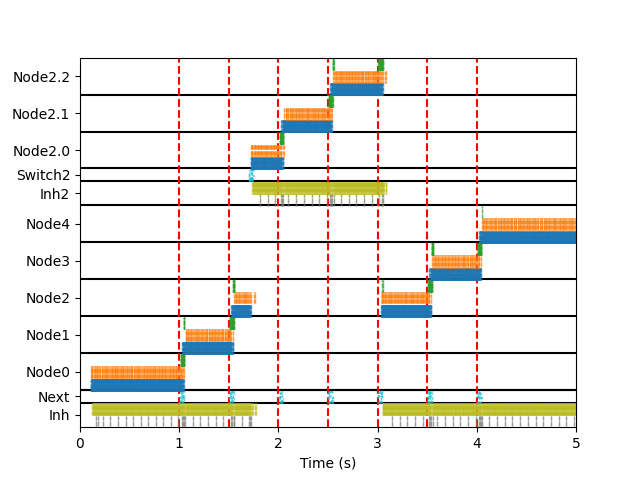
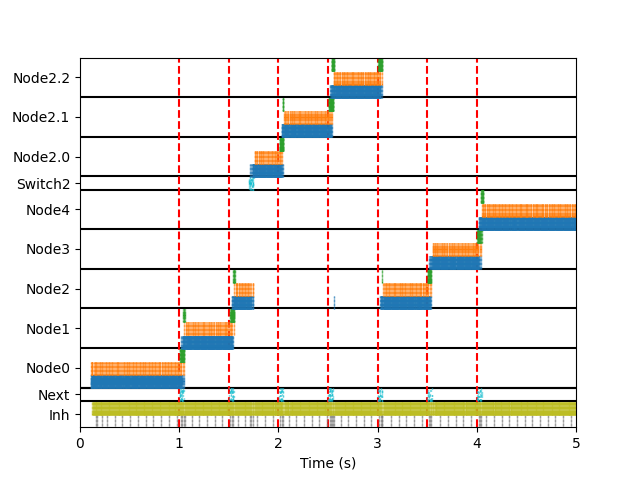
Update branch topology

diff --git a/ssm.py b/ssm.py
@@ -68,11 +68,7 @@ class SNNStateMachine:
             w = None
         if self.sim.isNeuronExist(f'Switch{pos}'):
             raise Exception('Triple branches or above at the same node are not supported yet.')
-        self.sim.addNeuron(f'OrdinalInh{pos}', n=self.population_size, taum=5, layer=4)
-        self.sim.addNeuron(f'TaskInh{pos}', n=self.population_size, layer=6)
         self.sim.addNeuron(f'Switch{pos}', n=self.population_size, c=0.1, taum=3, restpot=-55, layer=1)
-        self.sim.addReceptor(f'OrdinalInh{pos}', 'AMPA', tau=20, meanexteff=10.5)
-        self.sim.addReceptor(f'TaskInh{pos}', 'AMPA', tau=20, meanexteff=10.5)
         self.sim.addReceptor(f'Switch{pos}', 'AMPA', tau=1, meanexteff=10)
         for subid in range(length):
             id = str(pos) + '.' + str(subid)
@@ -80,12 +76,16 @@ class SNNStateMachine:
                 self.declareNodeNeurons(id, w)
             else:
                 self.declareNodeNeurons(id)
-            self.sim.addCoonection(f'Ordinal{id}', f'OrdinalInh{pos}', 'AMPA', 0.5)
-            self.sim.addCoonection(f'Task{id}', f'TaskInh{pos}', 'AMPA', 1.0)
+            #self.sim.addCoonection(f'Ordinal{id}', f'OrdinalInh{pos}', 'AMPA', 0.5)
+            self.sim.addCoonection(f'Ordinal{id}', f'OrdinalInh', 'AMPA', 0.5)
+            #self.sim.addCoonection(f'Task{id}', f'TaskInh{pos}', 'AMPA', 1.0)
+            self.sim.addCoonection(f'Task{id}', f'TaskInh', 'AMPA', 1.0)
             self.sim.addCoonection('Next', f'Shifter{id}', 'AMPA', 2.0)
-            self.sim.addCoonection(f'OrdinalInh{pos}', f'Ordinal{id}', 'GABA', 10)
-            self.sim.addCoonection(f'TaskInh{pos}', f'Task{id}', 'GABA', 50.0)
-        self.sim.addCoonection(f'Switch{pos}', f"Ordinal{str(pos)+'.0'}", 'AMPA', 2.0)
+            #self.sim.addCoonection(f'OrdinalInh{pos}', f'Ordinal{id}', 'GABA', 10)
+            self.sim.addCoonection(f'OrdinalInh', f'Ordinal{id}', 'GABA', 10)
+            #self.sim.addCoonection(f'TaskInh{pos}', f'Task{id}', 'GABA', 50.0)
+            self.sim.addCoonection(f'TaskInh', f'Task{id}', 'GABA', 50.0)
+        self.sim.addCoonection(f'Switch{pos}', f"Ordinal{str(pos)+'.0'}", 'AMPA', 3.0)
                 
 
     def declareNodeNeurons(self, id, fork_task_weight=None):
@@ -125,10 +125,10 @@ class SNNStateMachine:
                         continue
                     self.sim.addCoonection(f'Shifter{prev_id}', f'Ordinal{id}', 'AMPA', 1.0)
                     prev_id = id
-                self.sim.addCoonection(f'Shifter{pair[0]}', f"Ordinal{str(pair[0]) + '.0'}", 'AMPA', 0.25)
-                self.sim.addCoonection(f'Shifter{pair[0]+(pair[1]-1)/10}', f'Ordinal{pair[0]}', 'AMPA', 0.4)
-                self.sim.addCoonection(f"Switch{pair[0]}", 'OrdinalInh', 'AMPA', 1.0)
-                self.sim.addCoonection(f'Ordinal{pair[0]}', f'OrdinalInh{pair[0]}', 'AMPA', 0.3)
+                self.sim.addCoonection(f'Shifter{pair[0]}', f"Ordinal{str(pair[0]) + '.0'}", 'AMPA', 0.5)
+                self.sim.addCoonection(f'Shifter{pair[0]+(pair[1]-1)/10}', f'Ordinal{pair[0]}', 'AMPA', 1.0)
+                #self.sim.addCoonection(f"Switch{pair[0]}", 'OrdinalInh', 'AMPA', 1.0)
+                #self.sim.addCoonection(f'Ordinal{pair[0]}', f'OrdinalInh{pair[0]}', 'AMPA', 0.3)
 
     def spawnAttractor(self, start, duration, stimulus_type, *args):
         self.sim.addStimulus(stimulus_type, (start, start + duration), 'Ordinal0', *args)
@@ -286,17 +286,17 @@ class SNNStateMachine:
         colors = []
         colors_node = [f'C{i//10}' for i in range(30)]
         for branch_info in self.fork_pos_len_w:
-            num_branch_neuron += branch_info[1]*30 + 30
-            branch_neuron_labels.extend([f'Inh{branch_info[0]}', f'Switch{branch_info[0]}'])
+            num_branch_neuron += branch_info[1]*30 + 10
+            branch_neuron_labels.extend([f'Switch{branch_info[0]}'])
             branch_neuron_labels.extend([f'Node{branch_info[0]}.{i}' for i in range(branch_info[1])])
-            colors.extend(f'C{i//10+7}' for i in range(30))
+            colors.extend(f'C{i//10+9}' for i in range(10))
             colors.extend(colors_node*branch_info[1])
             if branch_ytick:
-                branch_ytick.extend([branch_ytick[-1]+25, branch_ytick[-1]+40])
-                branch_hl.extend([branch_hl[-1]+30, branch_hl[-1]+50, branch_hl[-1]+60])
+                branch_ytick.extend([branch_ytick[-1]+20])
+                branch_hl.extend([branch_hl[-1]+30, branch_hl[-1]+40])
             else:
-                branch_ytick.extend([25,40])
-                branch_hl.extend([30, 50, 60])
+                branch_ytick.extend([20])
+                branch_hl.extend([30, 40])
             tail = branch_ytick[-1]
             hl_tail = branch_hl[-1]
             branch_hl.extend([x for x in range(hl_tail+30, tail+branch_info[1]*30, 30)])

diff --git a/raster_example.py b/raster_example.py
@@ -10,7 +10,6 @@ if __name__ == '__main__':
         ssc = SNNStateMachine(5, transitions=4, experiment_time=3000, repetition=1)
         ssc.setTransitionPeriod(1000, 50, 500)
         ssc.generateTransitionStimuli('spike', 'AMPA', 250)
-        ssc.plotNetwork()
     elif args.configuration == 'branched':
         ssc = SNNStateMachine(5, transitions=7, fork_pos_len_w=[(2, 3)], experiment_time=5000, repetition=1)
         ssc.setTransitionPeriod(1000, 50, 500)
@@ -22,6 +21,7 @@ if __name__ == '__main__':
         ssc.setTransitionPeriod(1000, [60, 70, 90, 120], 500)
         ssc.generateTransitionStimuli('spike', 'AMPA', 250)
 
+    ssc.plotNetwork()
     ssc.spawnAttractor(100, 50, 'spike', 'AMPA', 400)
     ssc.startSimulation()
     ssc.plotRaster()
